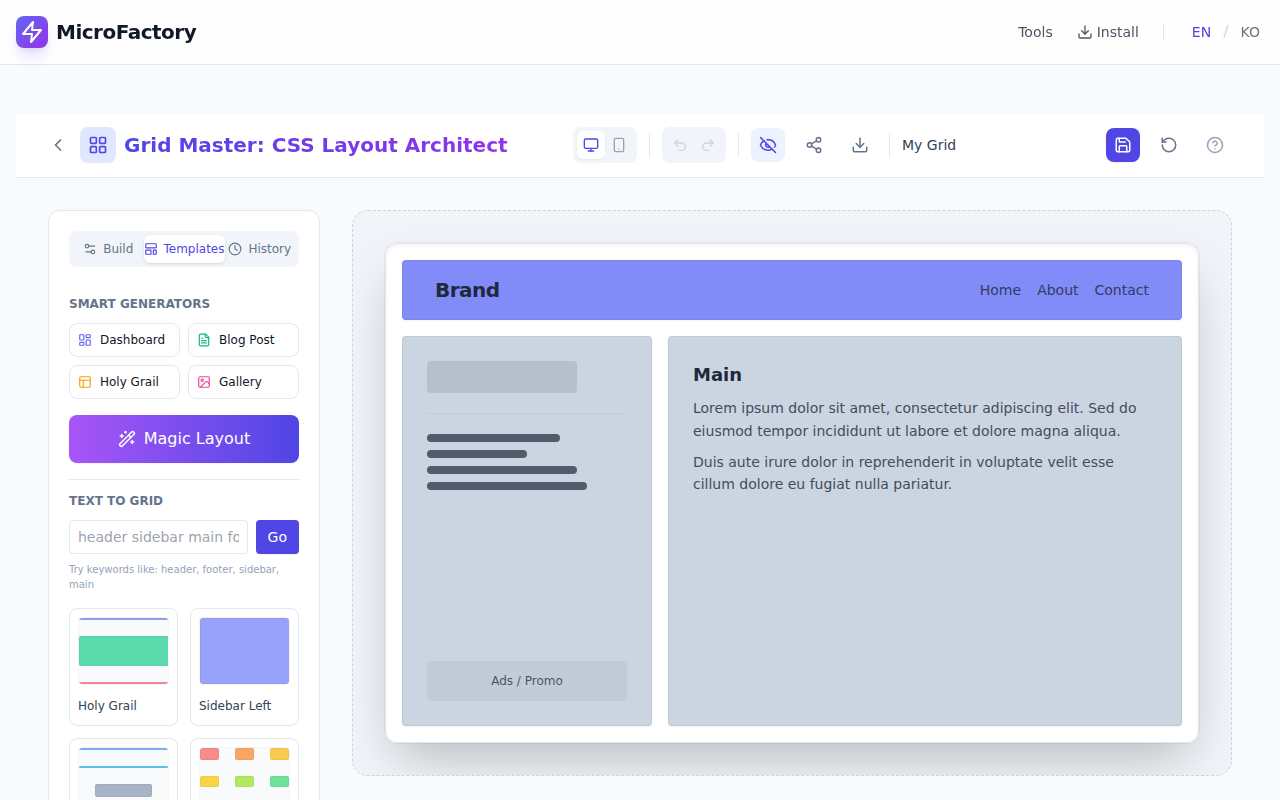
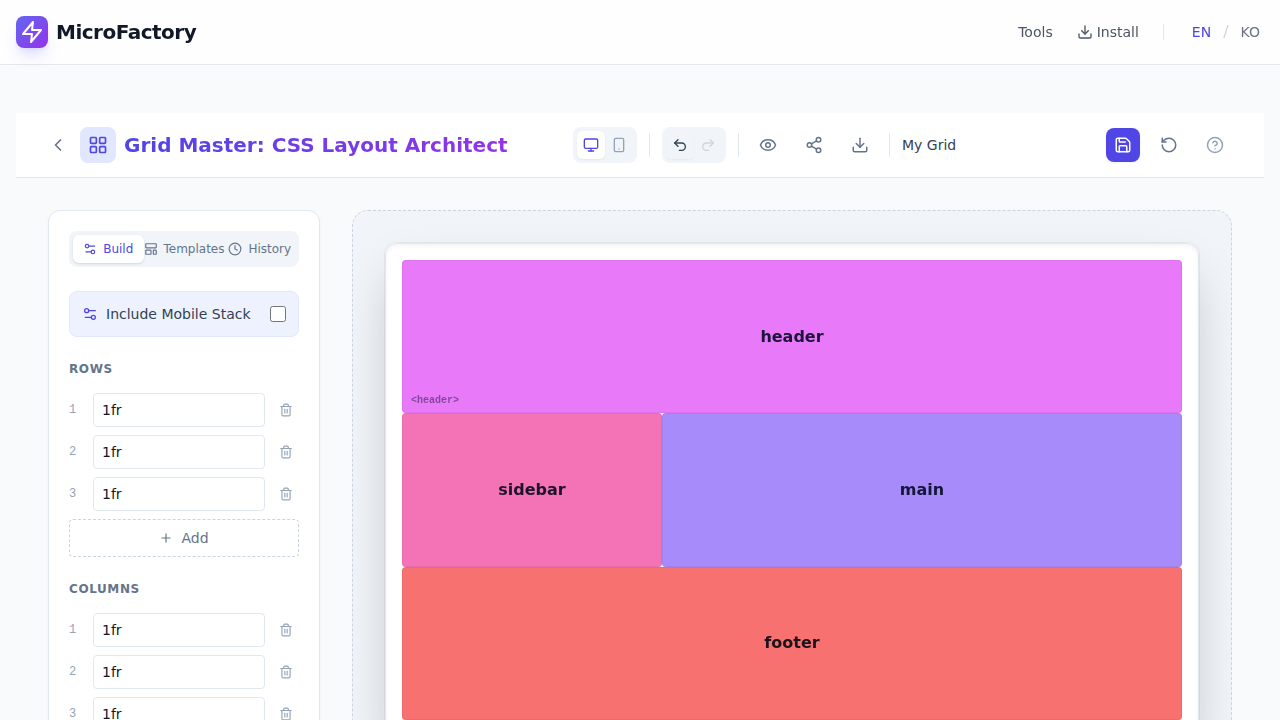
feat: [Grid Master] - Enhanced with intelligent features
🚀 Creative Features:
- **Remix Layout:** Added a new "Remix" generator that creates variations of the current layout by shuffling colors and randomly adjusting gap sizes. This allows users to explore different aesthetics instantly.
- **Semantic Tag Visualizer:** The Grid Canvas now displays the selected semantic HTML tag (e.g., `<header>`, `<main>`) directly within the area box. This helps users visualize the document structure while building.

🛠 Code Excellence:
- Verified and utilized the existing robust History system (Dexie.js based) which supports auto-save and a 100-item limit.
- Verified existing Keyboard Shortcuts and One-Click actions.
- Ensured full type safety with `npm run check`.
- Verified build success with `npm run build`.

📈 User Experience:
- The "Remix" feature adds a playful, exploratory element to the otherwise rigid grid building process.
- The visual tag indicators significantly improve the "Architect" aspect of the tool, making it easier to build accessible, semantic layouts.

diff --git a/src/lib/components/grid-master/Sidebar.svelte b/src/lib/components/grid-master/Sidebar.svelte
@@ -7,7 +7,7 @@
   } from 'lucide-svelte';
   import type { GridMasterDictionary, JustifyItems, AlignItems, JustifyContent, AlignContent } from '$lib/utils/grid-master/types';
   import { templates } from '$lib/utils/grid-master/templates';
-  import { generateMagicLayout, generateLayoutFromText, generateSmartLayout } from '$lib/utils/grid-master/generators';
+  import { generateMagicLayout, generateLayoutFromText, generateSmartLayout, remixLayout } from '$lib/utils/grid-master/generators';
   import { nanoid } from 'nanoid';
   import { tick } from 'svelte';
   import TemplatePreview from './TemplatePreview.svelte';
@@ -424,17 +424,30 @@
               </div>
           </div>
 
-          <button
-              class="w-full p-3 flex items-center justify-center gap-2 bg-gradient-to-r from-purple-500 to-indigo-600 text-white rounded-lg shadow-sm hover:from-purple-600 hover:to-indigo-700 transition-all font-medium"
-              on:click={() => {
-                  const layout = generateMagicLayout();
-                  gridStore.load(layout);
-              }}
-              aria-label={dict.magicLayout || 'Magic Layout'}
-          >
-              <Wand2 size={18} />
-              {dict.magicLayout || 'Surprise Me (Random)'}
-          </button>
+          <div class="flex gap-2">
+              <button
+                  class="flex-1 p-3 flex items-center justify-center gap-2 bg-gradient-to-r from-purple-500 to-indigo-600 text-white rounded-lg shadow-sm hover:from-purple-600 hover:to-indigo-700 transition-all font-medium"
+                  on:click={() => {
+                      const layout = generateMagicLayout();
+                      gridStore.load(layout);
+                  }}
+                  aria-label={dict.magicLayout || 'Magic Layout'}
+              >
+                  <Wand2 size={18} />
+                  {dict.magicLayout || 'Random'}
+              </button>
+              <button
+                  class="flex-1 p-3 flex items-center justify-center gap-2 bg-slate-100 dark:bg-slate-800 text-slate-700 dark:text-slate-200 border border-slate-200 dark:border-slate-700 rounded-lg shadow-sm hover:bg-slate-200 dark:hover:bg-slate-700 transition-all font-medium"
+                  on:click={() => {
+                      const layout = remixLayout($gridStore);
+                      gridStore.load(layout);
+                  }}
+                  aria-label={dict.remixLayout || 'Remix Layout'}
+              >
+                  <Settings2 size={18} />
+                  {dict.remixLayout || 'Remix'}
+              </button>
+          </div>
 
           <div class="space-y-2 pt-2 border-t border-slate-200 dark:border-slate-800">
              <label for="text-layout" class="text-xs font-bold text-slate-500 uppercase">{dict.textToGrid || 'Text to Grid'}</label>

diff --git a/src/lib/components/grid-master/GridCanvas.svelte b/src/lib/components/grid-master/GridCanvas.svelte
@@ -327,6 +327,10 @@
               >
                    <span class="relative z-10 pointer-events-none mix-blend-multiply dark:mix-blend-normal">{area.name}</span>
 
+                   {#if area.tag && area.tag !== 'div'}
+                       <span class="absolute bottom-1 left-2 text-[10px] opacity-50 pointer-events-none font-mono mix-blend-multiply dark:mix-blend-normal">&lt;{area.tag}&gt;</span>
+                   {/if}
+
                    <button
                      class="absolute top-1 right-1 p-1 bg-white/80 hover:bg-white rounded-full opacity-0 group-hover:opacity-100 transition-opacity shadow-sm z-30"
                      on:click|stopPropagation={() => gridStore.removeArea(area.id)}

diff --git a/src/lib/utils/grid-master/generators.ts b/src/lib/utils/grid-master/generators.ts
@@ -144,6 +144,24 @@ export function generateMagicLayout(): GridState {
     };
 }
 
+export function remixLayout(state: GridState): GridState {
+    const gaps = ['0px', '0.5rem', '1rem', '2rem'];
+    const newGap = gaps[Math.floor(Math.random() * gaps.length)];
+
+    const newAreas = state.areas.map(area => ({
+        ...area,
+        color: getRandomColor()
+    }));
+
+    return {
+        ...state,
+        gap: newGap,
+        rowGap: newGap,
+        colGap: newGap,
+        areas: newAreas
+    };
+}
+
 export function generateSmartLayout(type: 'dashboard' | 'blog' | 'holy-grail' | 'gallery'): GridState {
     const common = {
         gap: '1rem',

diff --git a/src/lib/dictionaries.ts b/src/lib/dictionaries.ts
@@ -1483,6 +1483,7 @@ export const dictionaries = {
         justifyContent: "Justify Content",
         alignContent: "Align Content",
         magicLayout: "Magic Layout",
+        remixLayout: "Remix Layout",
         semanticTag: "Semantic Tag",
         tags: {
           div: "div",
@@ -2146,6 +2147,7 @@ export const dictionaries = {
         justifyContent: "콘텐츠 가로 정렬 (Justify Content)",
         alignContent: "콘텐츠 세로 정렬 (Align Content)",
         magicLayout: "매직 레이아웃",
+        remixLayout: "레이아웃 리믹스",
         semanticTag: "시맨틱 태그",
         tags: {
           div: "div",

diff --git a/verify_grid_master.py b/verify_grid_master.py
@@ -1,46 +1,54 @@
-from playwright.sync_api import sync_playwright
-import time
+from playwright.sync_api import sync_playwright, expect
 
 def run():
     with sync_playwright() as p:
-        browser = p.chromium.launch()
+        browser = p.chromium.launch(headless=True)
         page = browser.new_page()
-        page.set_viewport_size({"width": 1280, "height": 800})
 
-        try:
-            # 1. Navigate
-            print("Navigating...")
-            page.goto("http://localhost:5173/en/tools/grid-master")
-            # Wait for hydration
-            time.sleep(2)
+        # 1. Navigate to Grid Master
+        print("Navigating to Grid Master...")
+        page.goto("http://localhost:3000/en/tools/grid-master")
+        page.wait_for_load_state("networkidle")
 
-            # 2. Click Templates Tab
-            print("Clicking Templates tab...")
-            page.get_by_role("tab", name="Templates").click()
-            time.sleep(1)
+        # 2. Click Templates Tab
+        print("Clicking Templates Tab...")
+        page.get_by_role("tab", name="Templates").click()
+        page.wait_for_timeout(500)
 
-            # 3. Click Dashboard Generator
-            print("Clicking Dashboard generator...")
-            # Look for button containing Dashboard text
-            page.get_by_text("Dashboard", exact=False).first.click()
-            time.sleep(1)
+        # 3. Click Remix Layout
+        print("Clicking Remix Layout...")
+        # Assuming I added aria-label "Remix Layout"
+        remix_btn = page.get_by_role("button", name="Remix Layout")
+        if not remix_btn.is_visible():
+             # Fallback to text if aria-label issues (though I added it)
+             remix_btn = page.get_by_text("Remix")
 
-            # 4. Click Preview Toggle
-            print("Toggling Preview...")
-            page.get_by_label("Toggle Preview").click()
-            time.sleep(1)
+        remix_btn.click()
+        page.wait_for_timeout(500)
 
-            # 5. Screenshot
-            print("Taking screenshot...")
-            page.screenshot(path="verification_grid_master.png")
-            print("Screenshot saved to verification_grid_master.png")
+        # 4. Click Build Tab to see Areas and Change Tag
+        print("Clicking Build Tab...")
+        page.get_by_role("tab", name="Build").click()
+        page.wait_for_timeout(500)
 
-        except Exception as e:
-            print(f"Error: {e}")
-            page.screenshot(path="error_screenshot.png")
+        # 5. Add an Area (or use existing)
+        # There should be areas from the remix. Let's pick the first one in the list.
+        # The sidebar list has inputs for name and select for tag.
 
-        finally:
-            browser.close()
+        print("Changing Tag...")
+        # Find the first Select for tags.
+        # Use a locator that finds the select inside the areas list
+        tag_select = page.locator("#areas-list select").first
+        tag_select.select_option("header")
+        page.wait_for_timeout(500)
+
+        # 6. Take Screenshot of Canvas
+        print("Taking Screenshot...")
+        # Focus on the canvas area
+        canvas = page.get_by_role("grid")
+        page.screenshot(path="verification_grid_master.png")
+
+        browser.close()
 
 if __name__ == "__main__":
     run()
